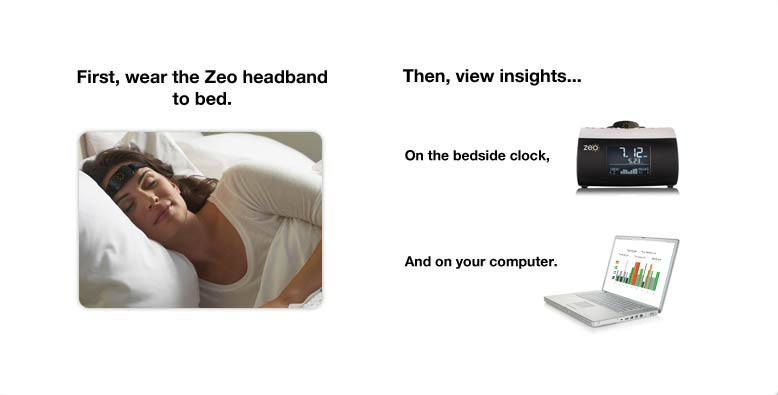
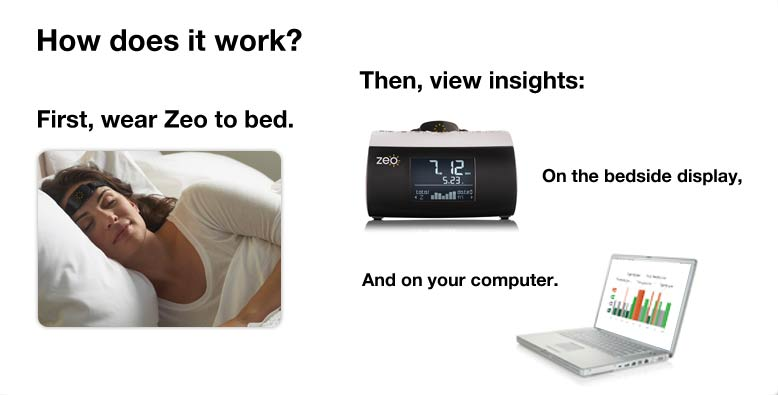
Fixed a few things

diff --git a/_site/index.html b/_site/index.html
@@ -39,7 +39,7 @@ var s = document.getElementsByTagName('script')[0]; s.parentNode.insertBefore(ga
     <div class='container'>
       <a href='index.html' id='logo'></a>
 <div class='nav'>
-  <a class='learn-about-zeo' href='learn-about-zeo.html'>Learn About Zeo</a>
+  <a class='learn-about-zeo' href='learn-about-zeo.html'>Learn More</a>
   <a class='press' href='press.html'>Press</a>
   <a class='support' href='support.html'>Support</a>
   <a class='login' href='http://mysleep.myzeo.com/'>Login</a>
@@ -61,8 +61,8 @@ var s = document.getElementsByTagName('script')[0]; s.parentNode.insertBefore(ga
           <h2>How does it work?</h2>
         </li>
         <li class='page' style='background:url(images/s-6.jpg) no-repeat'>
-          <a href='learn-about-zeo.html' style='position:absolute;right:20px;top:15px;'>
-            <img src='images/btn-learn.png' />
+          <a href='learn-about-zeo.html' style='position:absolute;right:0;top:325px;'>
+            <img src='images/s-more.png' />
           </a>
           <h2>The more you know, the better you sleep.</h2>
         </li>

diff --git a/index.html b/index.html
@@ -16,8 +16,8 @@ layout: default
           <h2>How does it work?</h2>
         </li>
         <li class='page' style='background:url(images/s-6.jpg) no-repeat'>
-          <a href='learn-about-zeo.html' style='position:absolute;right:20px;top:15px;'>
-            <img src='images/btn-learn.png' />
+          <a href='learn-about-zeo.html' style='position:absolute;right:0;top:325px;'>
+            <img src='images/s-more.png' />
           </a>
           <h2>The more you know, the better you sleep.</h2>
         </li>

diff --git a/_site/explaining/announcing-zeo-canada/index.html b/_site/explaining/announcing-zeo-canada/index.html
@@ -39,7 +39,7 @@ var s = document.getElementsByTagName('script')[0]; s.parentNode.insertBefore(ga
     <div class='container'>
       <a href='index.html' id='logo'></a>
 <div class='nav'>
-  <a class='learn-about-zeo' href='learn-about-zeo.html'>Learn About Zeo</a>
+  <a class='learn-about-zeo' href='learn-about-zeo.html'>Learn More</a>
   <a class='press' href='press.html'>Press</a>
   <a class='support' href='support.html'>Support</a>
   <a class='login' href='http://mysleep.myzeo.com/'>Login</a>

diff --git a/_site/learn-about-zeo.html b/_site/learn-about-zeo.html
@@ -39,7 +39,7 @@ var s = document.getElementsByTagName('script')[0]; s.parentNode.insertBefore(ga
     <div class='container'>
       <a href='index.html' id='logo'></a>
 <div class='nav'>
-  <a class='learn-about-zeo' href='learn-about-zeo.html'>Learn About Zeo</a>
+  <a class='learn-about-zeo' href='learn-about-zeo.html'>Learn More</a>
   <a class='press' href='press.html'>Press</a>
   <a class='support' href='support.html'>Support</a>
   <a class='login' href='http://mysleep.myzeo.com/'>Login</a>

diff --git a/_site/login.html b/_site/login.html
@@ -39,7 +39,7 @@ var s = document.getElementsByTagName('script')[0]; s.parentNode.insertBefore(ga
     <div class='container'>
       <a href='index.html' id='logo'></a>
 <div class='nav'>
-  <a class='learn-about-zeo' href='learn-about-zeo.html'>Learn About Zeo</a>
+  <a class='learn-about-zeo' href='learn-about-zeo.html'>Learn More</a>
   <a class='press' href='press.html'>Press</a>
   <a class='support' href='support.html'>Support</a>
   <a class='login' href='http://mysleep.myzeo.com/'>Login</a>

diff --git a/_site/press.html b/_site/press.html
@@ -39,7 +39,7 @@ var s = document.getElementsByTagName('script')[0]; s.parentNode.insertBefore(ga
     <div class='container'>
       <a href='index.html' id='logo'></a>
 <div class='nav'>
-  <a class='learn-about-zeo' href='learn-about-zeo.html'>Learn About Zeo</a>
+  <a class='learn-about-zeo' href='learn-about-zeo.html'>Learn More</a>
   <a class='press' href='press.html'>Press</a>
   <a class='support' href='support.html'>Support</a>
   <a class='login' href='http://mysleep.myzeo.com/'>Login</a>

diff --git a/_site/purchase.html b/_site/purchase.html
@@ -39,7 +39,7 @@ var s = document.getElementsByTagName('script')[0]; s.parentNode.insertBefore(ga
     <div class='container'>
       <a href='index.html' id='logo'></a>
 <div class='nav'>
-  <a class='learn-about-zeo' href='learn-about-zeo.html'>Learn About Zeo</a>
+  <a class='learn-about-zeo' href='learn-about-zeo.html'>Learn More</a>
   <a class='press' href='press.html'>Press</a>
   <a class='support' href='support.html'>Support</a>
   <a class='login' href='http://mysleep.myzeo.com/'>Login</a>

diff --git a/_site/support.html b/_site/support.html
@@ -39,7 +39,7 @@ var s = document.getElementsByTagName('script')[0]; s.parentNode.insertBefore(ga
     <div class='container'>
       <a href='index.html' id='logo'></a>
 <div class='nav'>
-  <a class='learn-about-zeo' href='learn-about-zeo.html'>Learn About Zeo</a>
+  <a class='learn-about-zeo' href='learn-about-zeo.html'>Learn More</a>
   <a class='press' href='press.html'>Press</a>
   <a class='support' href='support.html'>Support</a>
   <a class='login' href='http://mysleep.myzeo.com/'>Login</a>

diff --git a/_includes/nav.html b/_includes/nav.html
@@ -1,6 +1,6 @@
 <a href='index.html' id='logo'></a>
 <div class='nav'>
-  <a class='learn-about-zeo' href='learn-about-zeo.html'>Learn About Zeo</a>
+  <a class='learn-about-zeo' href='learn-about-zeo.html'>Learn More</a>
   <a class='press' href='press.html'>Press</a>
   <a class='support' href='support.html'>Support</a>
   <a class='login' href='http://mysleep.myzeo.com/'>Login</a>

diff --git a/_site/css/styles.css b/_site/css/styles.css
@@ -99,7 +99,8 @@ a {
   display: inline-block;
   float: right;
   position: relative;
-  z-index: 10; }
+  z-index: 10;
+  margin-bottom: 0px; }
   .nav a {
     color: white;
     font-size: 110%;

diff --git a/css/styles.css b/css/styles.css
@@ -99,7 +99,8 @@ a {
   display: inline-block;
   float: right;
   position: relative;
-  z-index: 10; }
+  z-index: 10;
+  margin-bottom: 0px; }
   .nav a {
     color: white;
     font-size: 110%;

diff --git a/work/sass/styles.sass b/work/sass/styles.sass
@@ -157,6 +157,7 @@ a
   float: right
   position: relative
   z-index: 10
+  margin-bottom: 0px
   a
     color: #fff
     font-size: 110%
